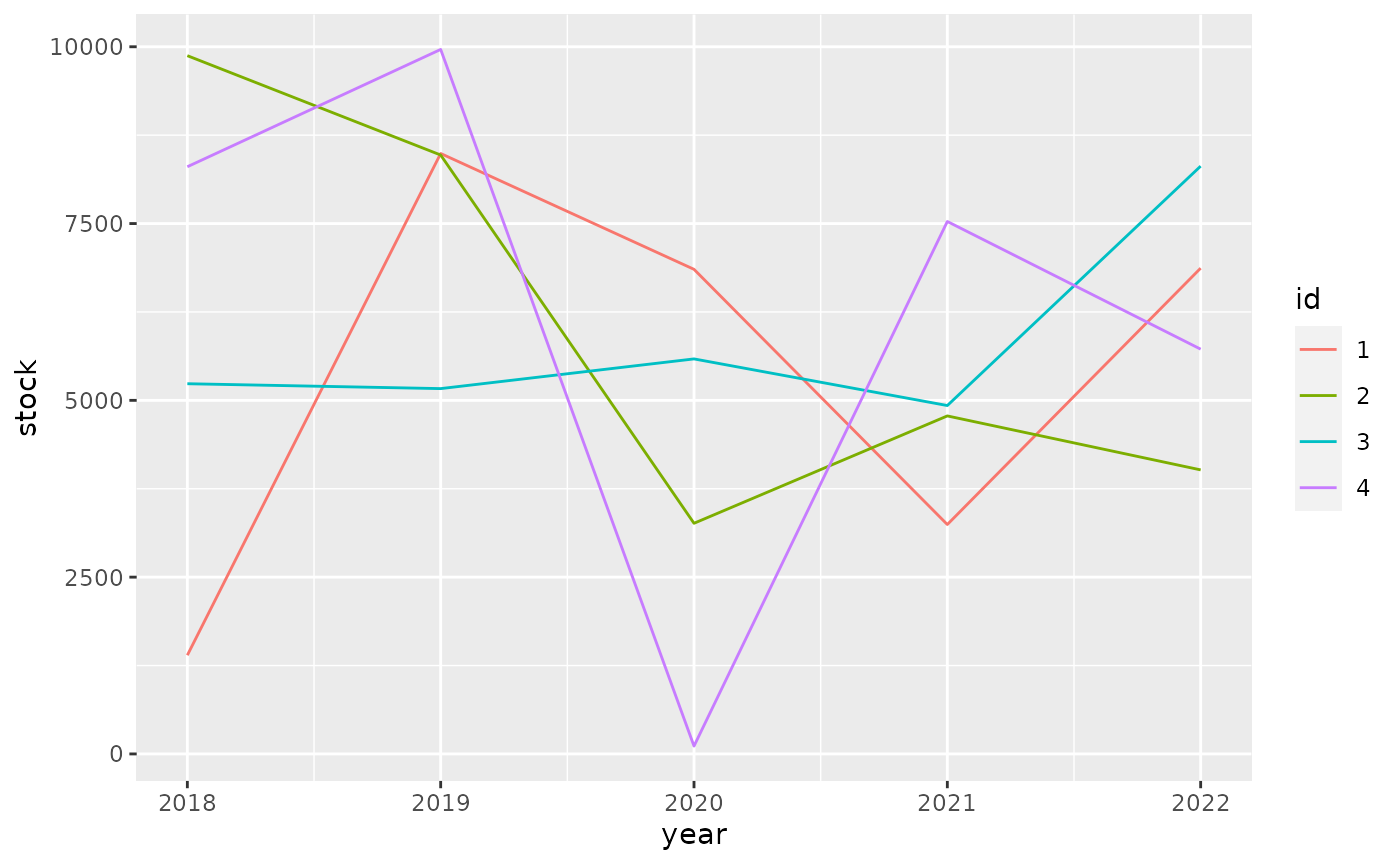
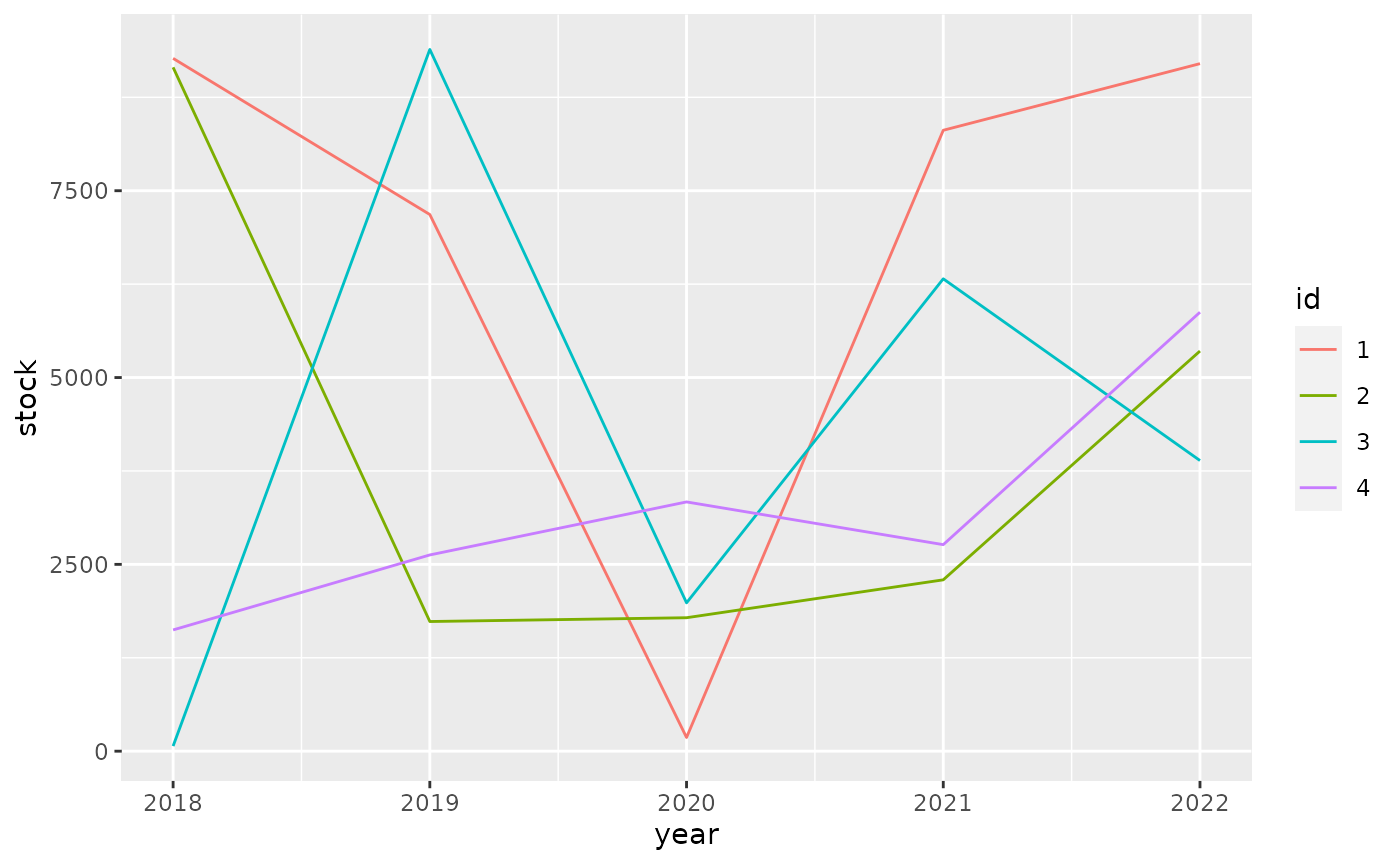
Built site for tibble: 3.1.3.9002@5db4c6c

diff --git a/dev/articles/formats.html b/dev/articles/formats.html
@@ -221,10 +221,10 @@
 <span class="co">#&gt; # A tibble: 4 × 6</span>
 <span class="co">#&gt;   id       `2018`    `2019`    `2020`    `2021`    `2022`</span>
 <span class="co">#&gt;   &lt;fct&gt; &lt;dbl:fmt&gt; &lt;dbl:fmt&gt; &lt;dbl:fmt&gt; &lt;dbl:fmt&gt; &lt;dbl:fmt&gt;</span>
-<span class="co">#&gt; 1 1     $1,395.68 $8,490.76 $6,852.80 $3,244.13 $6,869.29</span>
-<span class="co">#&gt; 2 2     $9,873.97 $8,469.09 $3,261.60 $4,779.75 $4,016.62</span>
-<span class="co">#&gt; 3 3     $5,234.98 $5,166.03 $5,586.01 $4,926.55 $8,312.00</span>
-<span class="co">#&gt; 4 4     $8,303.34 $9,962.09   $111.05 $7,529.10 $5,723.78</span></code></pre></div>
+<span class="co">#&gt; 1 1     $9,271.09 $7,181.38   $183.33 $8,308.81 $9,200.45</span>
+<span class="co">#&gt; 2 2     $9,151.16 $1,735.09 $1,785.88 $2,293.02 $5,354.69</span>
+<span class="co">#&gt; 3 3        $68.27 $9,390.57 $1,985.13 $6,321.15 $3,889.30</span>
+<span class="co">#&gt; 4 4     $1,622.56 $2,626.05 $3,335.54 $2,763.80 $5,874.18</span></code></pre></div>
 <p>For ggplot2 we need to do <a href="https://github.com/tidyverse/ggplot2/pull/4065" class="external-link">some work</a> to show apply the formatting to the scales.</p>
 <div class="sourceCode" id="cb6"><pre class="downlit sourceCode r">
 <code class="sourceCode R"><span class="kw"><a href="https://rdrr.io/r/base/library.html" class="external-link">library</a></span><span class="op">(</span><span class="va"><a href="https://ggplot2.tidyverse.org" class="external-link">ggplot2</a></span><span class="op">)</span>
@@ -235,10 +235,10 @@
   <span class="fu"><a href="https://ggplot2.tidyverse.org/reference/geom_path.html" class="external-link">geom_line</a></span><span class="op">(</span><span class="op">)</span></code></pre></div>
 <p><img src="formats_files/figure-html/unnamed-chunk-7-1.png" width="700"></p>
 <p>It pays off to specify formatting very early in the process. The diagram below shows the principal stages of data analysis and exploration from “R for data science”.</p>
-<div id="htmlwidget-211832336d73bb615895" style="width:700px;height:432.632880098888px;" class="DiagrammeR html-widget"></div>
-<script type="application/json" data-for="htmlwidget-211832336d73bb615895">{"x":{"diagram":"graph TD\n  Import --> Tidy\n  Tidy --> Transform\n  Transform --> Visualize\n  Visualize --> Communicate\n  Visualize --> Model\n  Model -.-> Transform"},"evals":[],"jsHooks":[]}</script><p>The subsequent diagram adds data formats, communication options, and explicit data formatting. The original r4ds transitions are highlighted in bold. There are two principal options where to apply formatting for results: right before communicating them, or right after importing.</p>
-<div id="htmlwidget-49f8746b302bfa432f45" style="width:700px;height:432.632880098888px;" class="DiagrammeR html-widget"></div>
-<script type="application/json" data-for="htmlwidget-49f8746b302bfa432f45">{"x":{"diagram":"graph TD\n  .csv --> Import\n  API --> Import\n  DBI --> Import\n  dbplyr --> Import\n  Import -.-> Format[Format for analysis]\n  Format -.-> Tidy\n\n  subgraph r4ds\n  Import ==> Tidy\n  Tidy ==> Transform\n  Transform ==> Visualize\n  Visualize ==> Model\n  Model -.-> Transform\n  Visualize ==> Communicate\n  end\n\n  Visualize -.-> FormatComm[Format for communication]\n  FormatComm -.-> Communicate\n\n  FormatComm -- Apply formatting early --> Format\n\n  dbplyr -.-> Tidy\n  dbplyr -.-> Transform\n  dbplyr -.-> Visualize\n\n  Communicate --> gt\n  Communicate --> ggplot2\n  Communicate --> DT\n  Communicate --> plotly"},"evals":[],"jsHooks":[]}</script><p>Applying formatting early in the process gives the added benefit of showing the data in a useful format during the “Tidy”, “Transform”, and “Visualize” stages. For this to be useful, we need to ensure that the formatting options applied early:</p>
+<div id="htmlwidget-578977bf1c6941e9f7b3" style="width:700px;height:432.632880098888px;" class="DiagrammeR html-widget"></div>
+<script type="application/json" data-for="htmlwidget-578977bf1c6941e9f7b3">{"x":{"diagram":"graph TD\n  Import --> Tidy\n  Tidy --> Transform\n  Transform --> Visualize\n  Visualize --> Communicate\n  Visualize --> Model\n  Model -.-> Transform"},"evals":[],"jsHooks":[]}</script><p>The subsequent diagram adds data formats, communication options, and explicit data formatting. The original r4ds transitions are highlighted in bold. There are two principal options where to apply formatting for results: right before communicating them, or right after importing.</p>
+<div id="htmlwidget-fa2b02b49b39af01dae6" style="width:700px;height:432.632880098888px;" class="DiagrammeR html-widget"></div>
+<script type="application/json" data-for="htmlwidget-fa2b02b49b39af01dae6">{"x":{"diagram":"graph TD\n  .csv --> Import\n  API --> Import\n  DBI --> Import\n  dbplyr --> Import\n  Import -.-> Format[Format for analysis]\n  Format -.-> Tidy\n\n  subgraph r4ds\n  Import ==> Tidy\n  Tidy ==> Transform\n  Transform ==> Visualize\n  Visualize ==> Model\n  Model -.-> Transform\n  Visualize ==> Communicate\n  end\n\n  Visualize -.-> FormatComm[Format for communication]\n  FormatComm -.-> Communicate\n\n  FormatComm -- Apply formatting early --> Format\n\n  dbplyr -.-> Tidy\n  dbplyr -.-> Transform\n  dbplyr -.-> Visualize\n\n  Communicate --> gt\n  Communicate --> ggplot2\n  Communicate --> DT\n  Communicate --> plotly"},"evals":[],"jsHooks":[]}</script><p>Applying formatting early in the process gives the added benefit of showing the data in a useful format during the “Tidy”, “Transform”, and “Visualize” stages. For this to be useful, we need to ensure that the formatting options applied early:</p>
 <ul>
 <li>give a good user experience for analysis
 <ul>

diff --git a/dev/articles/types.html b/dev/articles/types.html
@@ -352,7 +352,7 @@
 #&gt; $ factor        &lt;fct&gt; A
 #&gt; $ ordered       &lt;ord&gt; a
 #&gt; $ Date          &lt;date&gt; 2021-08-01
-#&gt; $ POSIXt        &lt;dttm&gt; 2021-08-01 04:22:02
+#&gt; $ POSIXt        &lt;dttm&gt; 2021-08-01 05:02:14
 #&gt; $ difftime      &lt;drtn&gt; 1 secs
 #&gt; $ hms           &lt;time&gt; 00:00:01
 #&gt; $ integer64     &lt;int64&gt; 10000000000
@@ -388,7 +388,7 @@
 <span class="co">#&gt;             "sym"</span>
 <span class="co">#&gt;         }, typeof(x))</span>
 <span class="co">#&gt; }</span>
-<span class="co">#&gt; &lt;bytecode: 0x560bda6ec788&gt;</span>
+<span class="co">#&gt; &lt;bytecode: 0x562b36cafe38&gt;</span>
 <span class="co">#&gt; &lt;environment: namespace:pillar&gt;</span></code></pre></div>
 </div>
   </div>
